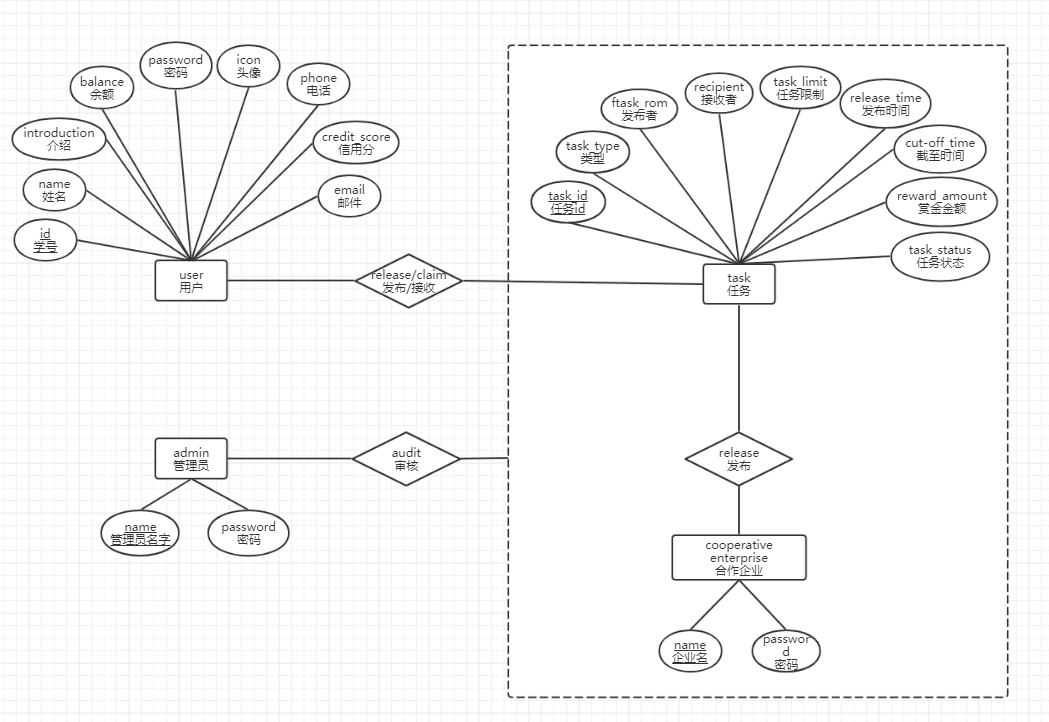
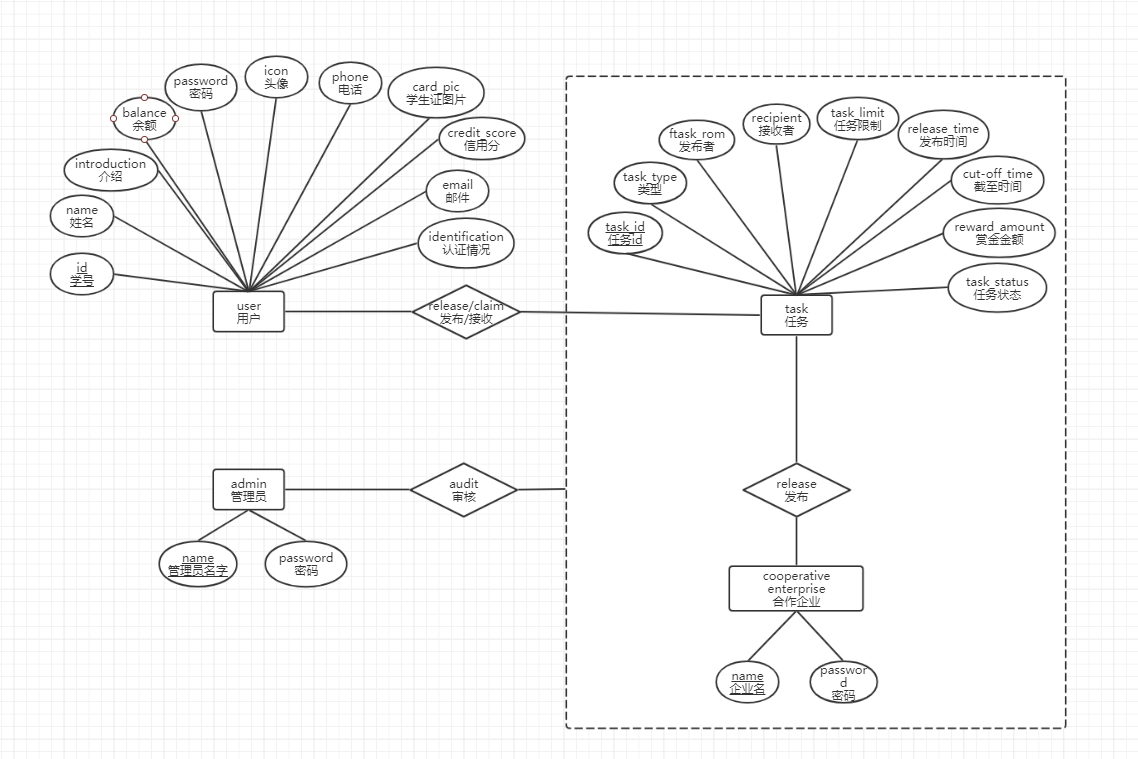
update:

diff --git a/07-02-01-database-design.md b/07-02-01-database-design.md
@@ -11,6 +11,7 @@
 > 相应代码
 
 ```mysql
+
 # 创建相应的数据库
 create database if not exists MoneyDodo;
 
@@ -23,10 +24,12 @@ create table if not exists user (
     password varchar(20) not null COMMENT '密码',
     introduction text COMMENT '个人简介',
     balance double COMMENT '余额',
-    icon text COMMENT '头像',
+    icon MEDIUMBLOB COMMENT '头像',
     phone varchar(11) COMMENT '电话号码',
     creditScore int COMMENT '信用分数',
-    email varchar(20) COMMENT '邮箱'
+    email varchar(20) COMMENT '邮箱',
+    cardPic MEDIUMBLOB COMMENT '学生证',
+	identification bool default false COMMENT '认证'
 );
 
 # 管理员
@@ -48,9 +51,9 @@ create table if not exists task (
     taskFrom varchar(20) not null COMMENT '发布者',
     recipient text COMMENT '接收者',
     taskLimit text COMMENT '任务限制',
-    releaseTime text COMMENT '发布时间',
+    releaseTime text not null COMMENT '发布时间',
     cutoffTime text COMMENT '截至时间',
-    rewardAmount double COMMENT '赏金金额',
+    rewardAmount double not null  COMMENT '赏金金额',
     taskStatus varchar(20) COMMENT '任务状态'
 );
 ```
